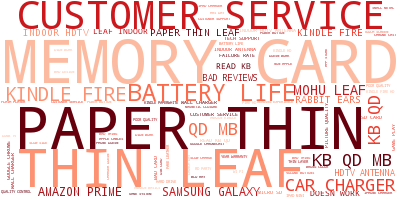
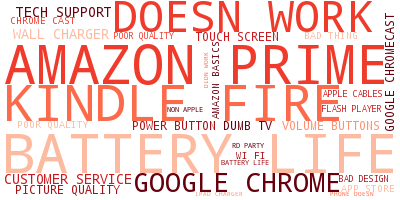
new topic models page with plot

diff --git a/app/templates/dashboard.html b/app/templates/dashboard.html
@@ -34,13 +34,14 @@
     <!--      Semantic           -->
     <link href="/static/semantic/dist/semantic.min.css" type="text/css">
     <script src="/static/semantic/dist/semantic.min.js"></script>
-
+<!--
     <script>
       function refreshImages(){
       document.getElementById("negative_word_cloud").src="/static/img/neg_wordcloud.png"
       document.getElementById("positive_word_cloud").src="/static/img/pos_wordcloud.png"
       }
       </script>
+-->
 </head>
 <body>
 
@@ -139,7 +140,7 @@
                     </select>
                </div>
 
-                <button onclick="refreshImages()" type="submit" class="btn btn-fill btn-info btn-default" >Submit</button>
+                <button type="submit" class="btn btn-fill btn-info btn-default" >Submit</button>
              </div>
           </form>
 		

diff --git a/app/templates/index.html b/app/templates/index.html
@@ -171,8 +171,8 @@
             </div>
 	    <div class="content">
 	      <div class="header" align="center">
-		<img src="/static/assets/img/faces/face-0.jpg"
-		     class="img-circle" width="300">
+		<img src="/static/assets/img/nadeem_head.jpg"
+		     class="img-circle" width="275">
 	      </div>
 	      <br>
 	      <p>Description here...</p>
@@ -187,8 +187,8 @@
             </div>
 	    <div class="content">
 	      <div class="header" align="center">
-		<img src="/static/assets/img/faces/face-0.jpg"
-		     class="img-circle" width="300">
+		<img src="/static/assets/img/bethan_head.png"
+		     class="img-circle" width="275">
 	      </div>
 	      <br>
 	      <p>Description here...</p>

diff --git a/app/views.py b/app/views.py
@@ -2,7 +2,8 @@ from flask import render_template, request, redirect, url_for
 from app import app, home
 from .utils import bcolors
 from Plots.time_series_plots import make_all_review_plot_json, make_sentiment_plot_json
-from Plots.word_cloud import make_word_cloud 
+from Plots.word_cloud import make_word_cloud
+from Plots.plotly_topic_modeling import plotly_topic_frequency_bar
 import plotly
 import plotly.plotly as py
 import plotly.graph_objs as go
@@ -17,10 +18,10 @@ def plotly_json_to_url(js,filename='product'):
     print(bcolors.red,link,bcolors.endc)
     return link
 
-def plotly_json_to_html(js,filename='product'):
+def plotly_json_to_html(js,filename='product', width="1000 px", height="500 px"):
     link = plotly_json_to_url(js,filename)
-    iframe = '<iframe width="1000 px" height="500 px" frameborder="0" scrolling="no" src="%s"></iframe>'
-    return iframe%(link)
+    iframe = '<iframe width="%s" height="%s" frameborder="0" scrolling="no" src="%s"></iframe>'
+    return iframe%(width,height,link)
 
 def wordcloud_html(src):
     try:
@@ -50,6 +51,12 @@ def sentiment_html_plot(lst):
                                              filename='sentiment')
     return sentiment_html
 
+def bar_html_plot(product,sentiment,width="800 px",height="500 px"):
+    bar_html = ''
+    if product and sentiment:
+        bar_json = json.loads(plotly_topic_frequency_bar(product,sentiment))
+        bar_html = plotly_json_to_html(bar_json, filename='bar', width=width, height=height)
+    return bar_html
 
 def product_list(lst):
     return ' | '.join(lst).rstrip(' | ')
@@ -67,14 +74,11 @@ def product():
     print(bcolors.blue,'Product Selection:',product_select,bcolors.endc)
     product_html = product_html_plot(product_select)
     sentiment_html = sentiment_html_plot(product_select)
-    positive_cloud = ''
-    negative_cloud = ''
+    positive_cloud = '<img>'
+    negative_cloud = '<img>'
     if product_select != []:
         print('New word clouds!')
         positive_cloud, negative_cloud = make_word_cloud(product_select)
-        #positive_cloud = "/static/img/pos_wordcloud.png"
-        #negative_cloud = "/static/img/neg_wordcloud.png"
-
         positive_cloud = wordcloud_html(positive_cloud)
         negative_cloud = wordcloud_html(negative_cloud)
     
@@ -104,7 +108,17 @@ def ml_models():
           'f1':f1_html}
     return render_template('ml_models.html',post=post)
 
-@app.route('/topic_models')
+@app.route('/topic_models',methods=['GET','POST'])
 def topic_models():
-    return render_template('topic_models.html',post={})
+    product = request.form.get('product')
+    sentiment = request.form.get('sentiment')
+
+    print(bcolors.red, product, bcolors.endc)
+    print(bcolors.blue, sentiment, bcolors.endc)
+        
+    bar_html = bar_html_plot(product,sentiment, width="900 px", height="500 px")
+    print(bcolors.green, bar_html, bcolors.endc)
+    post = {'bar_html':bar_html}
+    print(post)
+    return render_template('topic_models.html',post=post)
     

diff --git a/Plots/plotly_topic_modeling.py b/Plots/plotly_topic_modeling.py
@@ -1,40 +1,42 @@
+import json
+import pandas as pd
+import numpy as np
+import plotly
+import plotly.plotly as py
+import plotly.graph_objs as go
+from app import df_review, df_topic
+
+py.sign_in('naddata', '6eos5rv0q4')
+
+#df_review = pd.read_csv('../data/review-topic.csv')
+#df_topic = pd.read_csv('../data/topic-words-reviews.csv')
+
+
+asin_dic = {'B0074BW614': 'Kindle Fire',
+            'B00DR0PDNE': 'Google Chromecast',
+            'B007WTAJTO': 'SanDisk memory card',
+            'B006GWO5WK': 'Kindle Powerfast Charger',
+            'B007R5YDYA': 'Kindle Paperwhite Case',
+            'B00622AG6S': 'Powergen Car Charger',
+            'B008OHNZI0': 'Privacy Screen for iPhone 5',
+            'B009SYZ8OC': 'USB to lightning charger',
+            'B00BGA9WK2': 'Sony PlayStation 4',
+            'B004QK7HI8': 'Mohu Leaf 30 TV Antenna'}
+
+inv_asin_dic = {k: v for v, k in asin_dic.items()}
+
+
 def plotly_topic_frequency_bar(product_id, sentiment):
-
-    asin_dic = {'B0074BW614': 'Kindle Fire',
-                'B00DR0PDNE': 'Google Chromecast',
-                'B007WTAJTO': 'SanDisk memory card',
-                'B006GWO5WK': 'Kindle Powerfast Charger',
-                'B007R5YDYA': 'Kindle Paperwhite Case',
-                'B00622AG6S': 'Powergen Car Charger',
-                'B008OHNZI0': 'Privacy Screen for iPhone 5',
-                'B009SYZ8OC': 'USB to lightning charger',
-                'B00BGA9WK2': 'Sony PlayStation 4',
-                'B004QK7HI8': 'Mohu Leaf 30 TV Antenna'}
-    inv_asin_dic = {k: v for v, k in asin_dic.items()}
-
-    import json
-    import pandas as pd
-    import numpy as np
-    import plotly
-    import plotly.plotly as py
-    import plotly.graph_objs as go
-
-    py.sign_in('naddata', '6eos5rv0q4')
 
     nshow = 50
     threshold = 0.5
 
-    df_review = pd.read_csv('../data/review-topic.csv')
-    df_topic = pd.read_csv('../data/topic-words-reviews.csv')
-
-    # product_id = 'B0074BW614'
+   # product_id = 'B0074BW614'
 
     if sentiment == 'positive':
         df = df_topic[df_topic['Sentiment'] == 1]
     elif sentiment == 'negative':
         df = df_topic[df_topic['Sentiment'] == 0]
-    # elif sentiment == 'all':
-    #     df = df_topic
 
     TID = df.Topic_ID.tolist()
     TID_label = ['Topic ' + str(i) for i in TID]
@@ -67,6 +69,7 @@ def plotly_topic_frequency_bar(product_id, sentiment):
                        #     title='Topics'
                        # ),
                        showlegend=False,
+                       margin=go.Margin(l=400),
                        height=800)
 
     data = [go.Bar(x=frequency_sorted[-nshow:],
